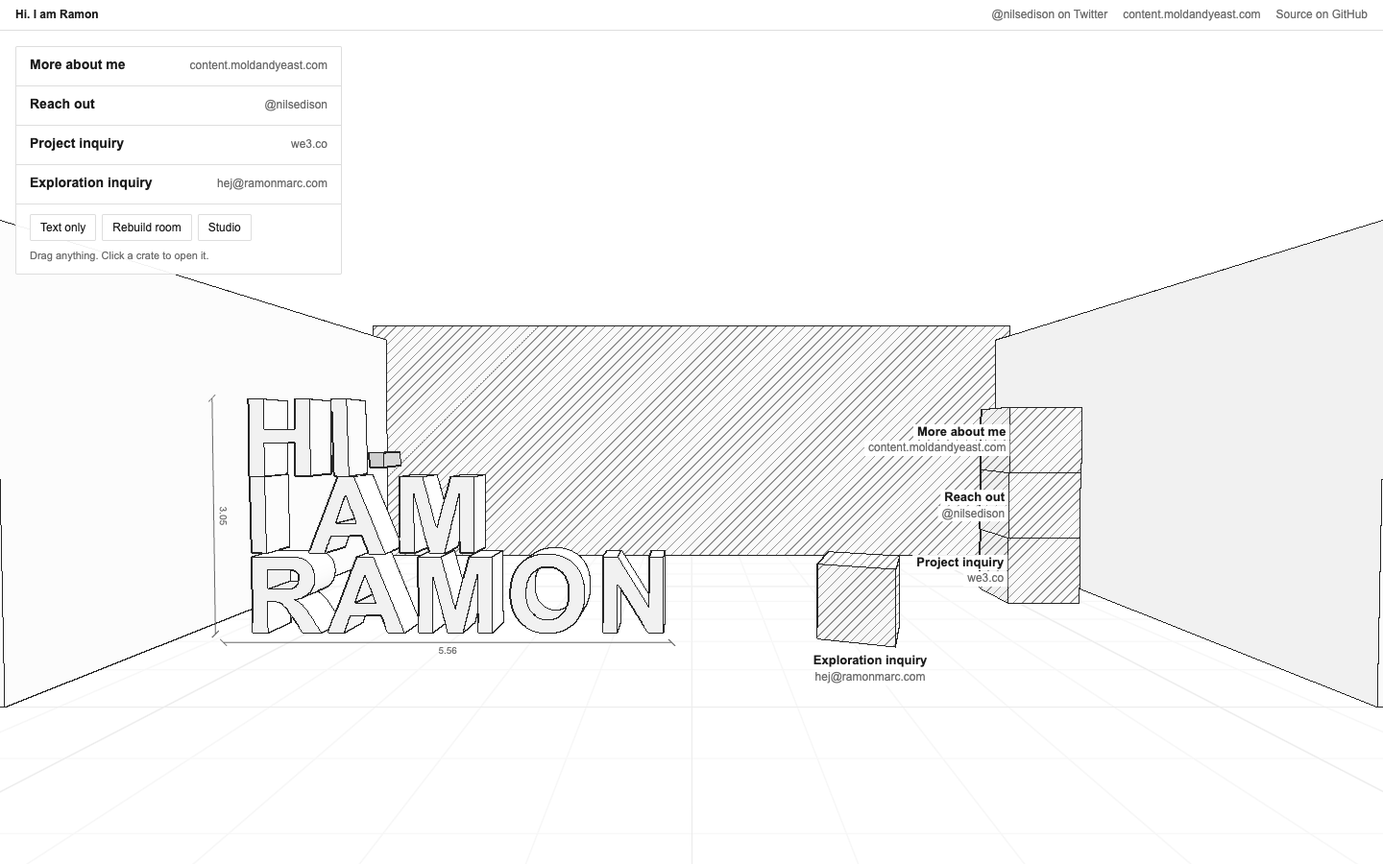
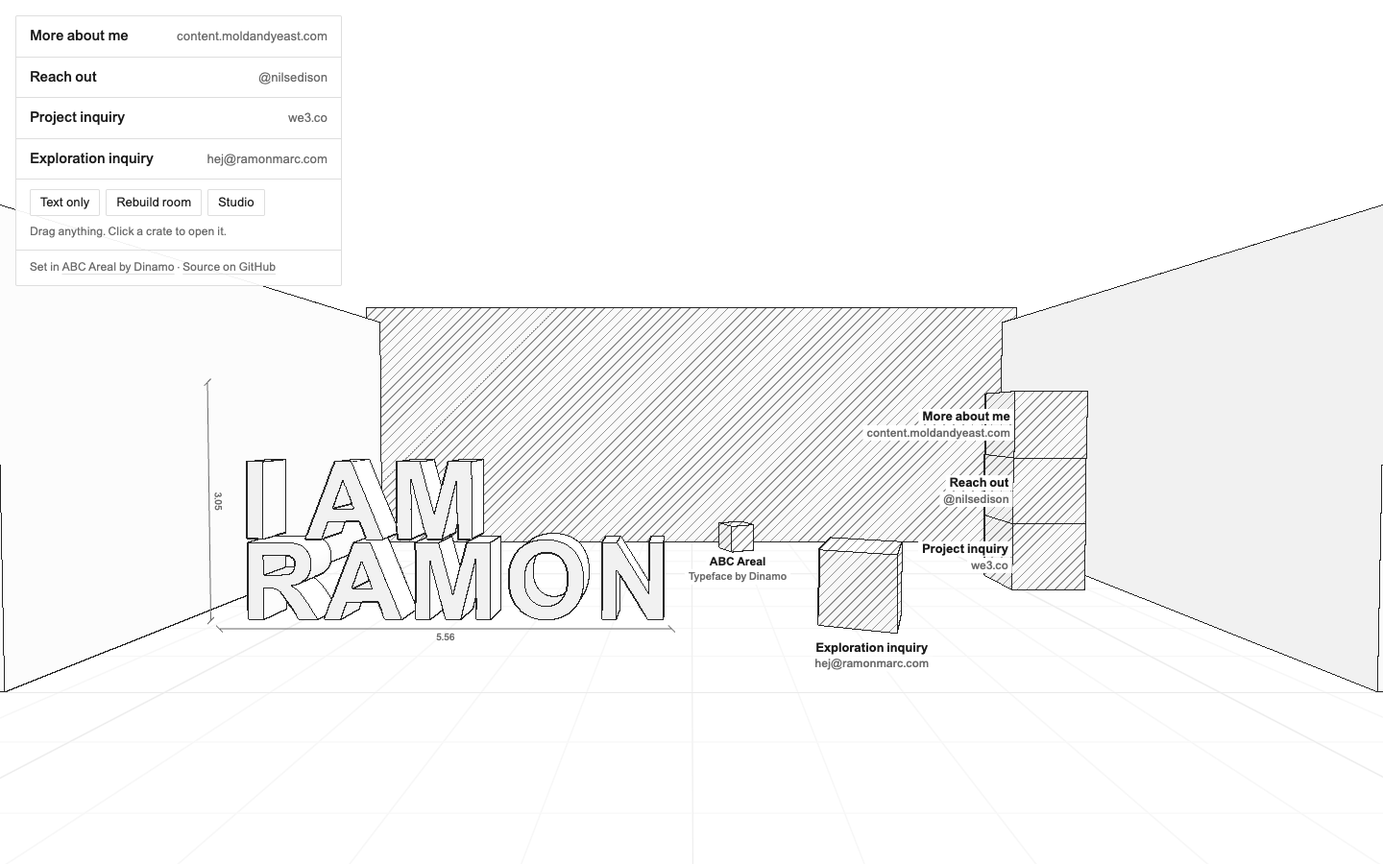
Set in ABC Areal by Dinamo; type system; colophon + Dinamo crate replace the credits bar
- Type: ABC Areal (free, by Dinamo) subset + inlined at build time by
  scripts/build.mjs into dist/ (wrangler runs it before deploy/dev). The font
  is never committed: Dinamo licence §10 forbids fonts in public repos; verify
  enforces it. 3D letters stay Arial (§10: no letterform-shaped objects).
- One scale (13/16/20 + display), real weights (400/500/700), size-specific
  tracking, DRKM dark-mode axis via --is-dark, tabular figures in the studio.
- Credits bar removed (it repeated the page's own links); a one-line colophon
  under the links credits Dinamo and links the source. Its data-crate link is a
  small crate at the back wall of the room.
- JS changes (deliberate, checksum updated): Areal as default face option,
  Site.links includes a[data-crate], room adds the small crate, crate labels
  use Theme.mono.

diff --git a/public/index.html b/public/index.html
@@ -41,11 +41,12 @@
 }
 </script>
 <style>
+/*@font-face ABC Areal: inlined here by scripts/build.mjs when fonts/ABCArealVariable.woff2 exists; otherwise Arial*/
 :root {
   --bg: #ffffff; --fill: #ffffff; --fill-2: #f1f1f1; --ink: #1a1a1a; --ink-2: #6b6b6b;
   --grid: #f2f2f2; --grid-major: #e3e3e3; --accent: #1a1a1a; --accent-fill: #e6e6e6; --ghost: #f7f7f7;
   --panel: rgba(255, 255, 255, 0.94); --hair: #dedede; --radius: 2px; --is-dark: 0;
-  --mono: Arial, "Helvetica Neue", Helvetica, "Liberation Sans", sans-serif; --display: Arial, "Helvetica Neue", Helvetica, "Liberation Sans", sans-serif;
+  --mono: "ABC Areal", Arial, "Helvetica Neue", Helvetica, "Liberation Sans", sans-serif; --display: "ABC Areal", Arial, "Helvetica Neue", Helvetica, "Liberation Sans", sans-serif;
   --fs-xs: 11px; --fs-s: 12px; --fs-m: 13px; --fs-l: 20px; --fs-xl: 30px;
 }
 @media (prefers-color-scheme: dark) { :root:not([data-theme="light"]) {
@@ -67,7 +68,7 @@ button { font: inherit; color: inherit; }
 .vh { position: absolute; width: 1px; height: 1px; overflow: hidden; clip: rect(0 0 0 0); white-space: nowrap; }
 [hidden] { display: none !important; }
 
-/* ===== Site layer: Arial, white / #1a1a1a, light grey hairlines, 2px corners ===== */
+/* ===== Site layer: ABC Areal (Arial fallback), white / #1a1a1a, light grey hairlines, 2px corners ===== */
 #site { --muted: var(--ink-2); font-family: var(--mono); }
 html:not(.room) body { overflow: auto; height: auto; min-height: 100%; background: var(--bg); }
 html:not(.room) #app { display: none; }
@@ -151,38 +152,9 @@ html.room .hint { padding: 0 14px 10px; font-size: 11px; }
 .hud-item .k::first-letter, #stats dt::first-letter { text-transform: uppercase; }
 #legend .lg-tog::after { content: "Hide"; } #legend.min .lg-tog::after { content: "Controls"; }
 #toast { border-radius: var(--radius); text-transform: none; letter-spacing: 0; font-size: 12px; }
-/* ===== Credits bar: same Arial, inks and hairlines as the site layer. Text page and room; gone in the studio and in fullscreen. ===== */
-#credits {
-  --cr-h: 32px; box-sizing: border-box; display: flex; flex-wrap: wrap; align-items: baseline; gap: 6px 16px;
-  --cr-x: max(clamp(20px, 6vw, 72px), calc((100% - 1040px) / 2 + clamp(20px, 6vw, 72px))); /* the text page's column */
-  padding: 10px var(--cr-x) 9px; font: 400 12px/1.1 var(--mono); color: var(--ink-2);
-  background: var(--bg); border-bottom: 1px solid var(--hair);
-}
-#credits b { font-weight: 700; color: var(--ink); }
-#credits ul { list-style: none; margin: 0 0 0 auto; padding: 0; display: flex; flex-wrap: wrap; gap: 6px 16px; }
-#credits a { color: inherit; text-decoration: none; }
-#credits a:hover { color: var(--ink); text-decoration: underline; text-underline-offset: 3px; text-decoration-thickness: 1px; }
-html:not(.room) body { display: flex; flex-direction: column; min-height: 100vh; min-height: 100dvh; }
-html:not(.room) #site { flex: 1 0 auto; width: 100%; min-height: 0; }
-html.room #credits { position: fixed; top: 0; left: 0; right: 0; z-index: 6; height: var(--cr-h); padding: 0 16px; align-items: center; flex-wrap: nowrap; white-space: nowrap; background: var(--panel); }
-html.room #credits ul { flex-wrap: nowrap; }
-html.room:not(.studio) #app { top: 32px; }
-html.room:not(.studio) #site { top: 48px; }
-html.studio #credits, html:fullscreen #credits { display: none !important; }
-@media (display-mode: fullscreen) { #credits { display: none !important; } }
-@media (max-width: 560px) { #credits ul { margin-left: 0; } }
-@media print { #credits { display: none; } }
 </style>
 </head>
 <body>
-<nav id="credits" aria-label="Credits">
-  <b>Hi. I am Ramon</b>
-  <ul>
-    <li><a href="https://twitter.com/nilsedison">@nilsedison on Twitter</a></li>
-    <li><a href="https://content.moldandyeast.com">content.moldandyeast.com</a></li>
-    <li><a href="https://github.com/moldandyeast/my-main-oct">Source on GitHub</a></li>
-  </ul>
-</nav>
 <main id="site">
   <header>
     <p class="sheet" aria-hidden="true">Sheet R-00 · moldandyeast.com</p>
@@ -204,6 +176,7 @@ html.studio #credits, html:fullscreen #credits { display: none !important; }
     <button type="button" class="btn only-room" data-site="studio">Studio</button>
   </div>
   <p class="hint only-room" aria-hidden="true">Drag anything. Click a crate to open it.</p>
+  <p class="colophon">Set in <a href="https://abcdinamo.com/typefaces/areal" data-crate data-label="ABC Areal" data-host="Typeface by Dinamo">ABC Areal by Dinamo</a> · <a href="https://github.com/moldandyeast/my-main-oct">Source on GitHub</a></p>
 </main>
 
 <!-- Everything below is the 3D room and the hidden studio (decorative / optional). -->
@@ -211,7 +184,7 @@ html.studio #credits, html:fullscreen #credits { display: none !important; }
   --bg: #ffffff; --fill: #ffffff; --fill-2: #f1f1f1; --ink: #1a1a1a; --ink-2: #6b6b6b;
   --grid: #f2f2f2; --grid-major: #e3e3e3; --accent: #1a1a1a; --accent-fill: #e6e6e6; --ghost: #f7f7f7;
   --panel: rgba(255, 255, 255, 0.94); --hair: #dedede; --radius: 2px; --is-dark: 0;
-  --mono: Arial, "Helvetica Neue", Helvetica, "Liberation Sans", sans-serif; --display: Arial, "Helvetica Neue", Helvetica, "Liberation Sans", sans-serif;
+  --mono: "ABC Areal", Arial, "Helvetica Neue", Helvetica, "Liberation Sans", sans-serif; --display: "ABC Areal", Arial, "Helvetica Neue", Helvetica, "Liberation Sans", sans-serif;
   --fs-xs: 11px; --fs-s: 12px; --fs-m: 13px; --fs-l: 20px; --fs-xl: 30px;
 }
 @media (prefers-color-scheme: dark) { :root:not([data-theme="light"]) {
@@ -397,7 +370,7 @@ code { font-family: var(--mono); }
 #hud, #stats, #legend, #titleblock, #banner, .drawer, .tbtn, .dr-io, .sc-text, pre, .tbl { border-radius: var(--radius); }
 #titleblock, #banner, .drawer { border-color: var(--hair); box-shadow: none; }
 
-/* ===== Site layer: Arial, white / #1a1a1a, light grey hairlines, 2px corners ===== */
+/* ===== Site layer: ABC Areal (Arial fallback), white / #1a1a1a, light grey hairlines, 2px corners ===== */
 #site { --muted: var(--ink-2); font-family: var(--mono); }
 html:not(.room) body { overflow: auto; height: auto; min-height: 100%; background: var(--bg); }
 html:not(.room) #app { display: none; }
@@ -481,6 +454,24 @@ html.room .hint { padding: 0 14px 10px; font-size: 11px; }
 .hud-item .k::first-letter, #stats dt::first-letter { text-transform: uppercase; }
 #legend .lg-tog::after { content: "Hide"; } #legend.min .lg-tog::after { content: "Controls"; }
 #toast { border-radius: var(--radius); text-transform: none; letter-spacing: 0; font-size: 12px; }
+/* ===== Type. ABC Areal by Dinamo: one scale (13 · 16 · 20 · display), real weights (400 text, 500 labels, 700 the heading),
+   tracking that tightens as size grows, and Areal's Darkmode axis on light-on-dark. ===== */
+:root { --t-s: 13px; --t-m: 16px; --t-l: 20px; -webkit-text-size-adjust: 100%; text-size-adjust: 100%; }
+body { font-variation-settings: "DRKM" var(--is-dark, 0); font-kerning: normal; text-rendering: optimizeLegibility; }
+#site h1 { font: 700 clamp(56px, 14vw, 160px)/0.88 var(--mono); letter-spacing: -0.035em; margin-left: -0.04em; }
+#links a { gap: 6px; padding: 16px 18px; }
+#links .lbl { font: 500 var(--t-l)/1.2 var(--mono); letter-spacing: -0.01em; }
+#links .host { font: 400 var(--t-m)/1.35 var(--mono); }
+#site .btn { font: 400 var(--t-s)/1 var(--mono); }
+.hint, .colophon { margin: 0; font: 400 var(--t-s)/1.4 var(--mono); color: var(--muted); letter-spacing: 0.005em; }
+.colophon a { color: inherit; text-decoration: underline; text-decoration-color: var(--hair); text-decoration-thickness: 1px; text-underline-offset: 3px; }
+.colophon a:hover, .colophon a.is-hot { color: var(--ink); text-decoration-color: currentColor; }
+html.room #links a { padding: 11px 14px; }
+html.room #links .lbl { font-size: 15px; letter-spacing: -0.005em; }
+html.room #links .host { font-size: var(--t-s); }
+html.room .hint { padding: 0 14px 10px; font-size: 12px; }
+html.room .colophon { border-top: 1px solid var(--hair); padding: 9px 14px 10px; font-size: 12px; }
+#stats, #hud, .hud-item { font-variant-numeric: tabular-nums; }
 </style>
 
 
@@ -4391,7 +4382,7 @@ class Overlay3 {
    §7  ENGINE SHELL — theme, input, audio, fixed-step loop, UI, demo registry
    ========================================================================== */
 const Theme = {
-  mono: 'Arial, "Helvetica Neue", Helvetica, "Liberation Sans", sans-serif',
+  mono: '"ABC Areal", Arial, "Helvetica Neue", Helvetica, "Liberation Sans", sans-serif',
   colors: {}, _rgb: {}, display: 'system-ui, sans-serif',
   /** Non-colour art-style tokens (edited in Settings → Render). */
   style: { line: 1, hatch: 7, hatchAngle: 45, statics: true, fills: true, marks: true, grid: true, annotations: true, edgePx: 1, edgeDepth: 0.06, edgeNormal: 0.8, shade: 1, vignette: 0, grain: 0, fogStart: 70, fogEnd: 220 },
@@ -4699,6 +4690,7 @@ const Engine = {
    so a tuned setup can be copied straight into a future prompt.
    ========================================================================== */
 const FONT_STACKS = {
+  areal: { label: 'ABC Areal', v: '"ABC Areal", Arial, "Helvetica Neue", Helvetica, "Liberation Sans", sans-serif' },
   arial: { label: 'Arial', v: 'Arial, "Helvetica Neue", Helvetica, "Liberation Sans", sans-serif' },
   mono: { label: 'Technical mono', v: 'ui-monospace, "SF Mono", "JetBrains Mono", "Cascadia Mono", Menlo, Consolas, "Liberation Mono", monospace' },
   typewriter: { label: 'Typewriter', v: '"Courier New", Courier, "Nimbus Mono PS", monospace' },
@@ -4706,6 +4698,7 @@ const FONT_STACKS = {
   humanist: { label: 'Humanist sans', v: '"Gill Sans", "Gill Sans MT", Optima, Candara, "Segoe UI", sans-serif' },
 };
 const DISPLAY_STACKS = {
+  areal: { label: 'ABC Areal', v: '"ABC Areal", Arial, "Helvetica Neue", Helvetica, "Liberation Sans", sans-serif' },
   arial: { label: 'Arial', v: 'Arial, "Helvetica Neue", Helvetica, "Liberation Sans", sans-serif' },
   condensed: { label: 'Condensed lettering', v: '"Avenir Next Condensed", "DIN Condensed", "Roboto Condensed", "Arial Narrow", "Helvetica Neue", system-ui, sans-serif' },
   grotesk: { label: 'Grotesk sans', v: 'system-ui, -apple-system, "Segoe UI", Roboto, "Helvetica Neue", Arial, sans-serif' },
@@ -4731,7 +4724,7 @@ const Settings = {
       world: { substeps: 4, jointIterations: 2, rate: 60, timeScale: 1, gravityScale: 1, allowSleep: true, interpolate: true },
       phys: JSON.parse(JSON.stringify(this._base)),
       mat: { override: false, friction: 0.6, restitution: 0, rolling: 0, linearDamping: 0, angularDamping: 0.02 },
-      style: { preset: 'auto', mono: 'arial', display: 'arial', tokens, ...JSON.parse(JSON.stringify(this._styleBase)) },
+      style: { preset: 'auto', mono: 'areal', display: 'areal', tokens, ...JSON.parse(JSON.stringify(this._styleBase)) },
     };
   },
   /** Panel schema: [tab, section, key path, label, kind, min, max, step, hint] */
@@ -4921,7 +4914,7 @@ const Settings = {
       for (const [k, css] of Object.entries(TOKEN_CSS)) if (T[k]) r.setProperty('--' + css, T[k]);
       r.setProperty('--panel', rgba(T.bg, 0.88)); r.setProperty('--hair', rgba(T.ink, T.dark ? 0.16 : 0.13)); r.setProperty('--is-dark', T.dark ? '1' : '0'); r.setProperty('color-scheme', T.dark ? 'dark' : 'light');
     }
-    r.setProperty('--mono', (FONT_STACKS[st.mono] || FONT_STACKS.arial).v); r.setProperty('--display', (DISPLAY_STACKS[st.display] || DISPLAY_STACKS.arial).v);
+    r.setProperty('--mono', (FONT_STACKS[st.mono] || FONT_STACKS.areal).v); r.setProperty('--display', (DISPLAY_STACKS[st.display] || DISPLAY_STACKS.areal).v);
     Theme.read();
   },
   cyclePreset() {
@@ -5787,12 +5780,15 @@ Engine.register({
     });
     s.stackH = base; s.left = left; s.zt = zt; s.D = D; s.ramonW = lines[0].width;
     // crates for the four HTML links: a tower of three by the right wall, one on the floor
-    const links = (typeof Site !== 'undefined' && Site.links) || [], C = 0.95, tx = R.w / 2 - 1.1, tz = 0.6;
+    const all = (typeof Site !== 'undefined' && Site.links) || [], links = all.filter(l => !l.small), C = 0.95, tx = R.w / 2 - 1.1, tz = 0.6;
     s.links = links.map((l, i) => {
       const floor = i === links.length - 1, h = floor ? C : 1.0;
       const pos = floor ? v3(2.2, h / 2 + 2.2, 2.6) : v3(tx, h / 2 + (links.length - 2 - i) * 1.0 + 0.3 + (links.length - 2 - i) * 0.5, tz);
       return W.add({ shape: Shape3.box(floor ? C : 1.1, h, floor ? C : 1.0), pos, q: Quat.axisAngle(v3(0, 1, 0), floor ? -0.35 : 0), density: 0.6, friction: 0.8, style: { hatch: true }, user: { link: i, hop: floor } });
     });
+    // the colophon's typeface credit: a small crate at the back wall
+    const si = all.findIndex(l => l.small), c = 0.5;
+    if (si >= 0) s.links.push(W.add({ shape: Shape3.box(c, c, c), pos: v3(0.9, c / 2 + 1.6, R.z0 + 0.8), q: Quat.axisAngle(v3(0, 1, 0), 0.45), density: 0.6, friction: 0.8, style: { hatch: true }, user: { link: si, hop: true, small: true } }));
     s.hoverLink = -1;
   },
   step(g) {
@@ -5836,9 +5832,9 @@ Engine.register({
     o.dim(v3(s.left, 0, z + 0.35), v3(s.left + s.ramonW, 0, z + 0.35), s.ramonW.toFixed(2));
     s.links.forEach(b => {
       const L = Site.links[b.user.link]; if (!L) return; const hot = Site.hl === b.user.link || s.hoverLink === b.user.link, fl = b.user.hop; // tower crates: label to the left · floor crate: label below
-      const p = fl ? (b.rp || b.pos).add(v3(0, -0.5, 0.5)) : rpose(b, v3(-0.62, 0, 0.5)), al = fl ? 'center' : 'right', y0 = fl ? 16 : -8;
-      o.text(L.label, p, { size: 13, bold: true, font: ArialText.FONT, color: hot ? T.accent : T.ink, bg: T.bg, dy: y0, align: al });
-      o.text(L.host, p, { size: 12, font: ArialText.FONT, color: hot ? T.accent : T.ink2, bg: T.bg, dy: y0 + 17, align: al });
+      const sm = b.user.small, p = fl ? (b.rp || b.pos).add(sm ? v3(0, -0.25, 0.25) : v3(0, -0.5, 0.5)) : rpose(b, v3(-0.62, 0, 0.5)), al = fl ? 'center' : 'right', y0 = fl ? (sm ? 12 : 16) : -8;
+      o.text(L.label, p, { size: sm ? 12 : 13, bold: true, font: Theme.mono, color: hot ? T.accent : T.ink, bg: T.bg, dy: y0, align: al });
+      o.text(L.host, p, { size: sm ? 11 : 12, font: Theme.mono, color: hot ? T.accent : T.ink2, bg: T.bg, dy: y0 + (sm ? 15 : 17), align: al });
     });
     if (s.poke && s.poke.t < 0.5) o.ring(s.poke.p, 4 + 40 * Ease.outCubic(s.poke.t / 0.5), T.accent);
   },
@@ -6370,10 +6366,10 @@ const Site = {
   gl() { if (this._gl == null) { try { this._gl = !!document.createElement('canvas').getContext('webgl2'); } catch (e) { this._gl = false; } } return this._gl; },
   pref(v) { try { if (v === undefined) return localStorage.getItem(this.KEY); localStorage.setItem(this.KEY, v); } catch (e) { return null; } },
   boot() {
-    this.links = [...document.querySelectorAll('#links a')].map((el, i) => {
+    this.links = [...document.querySelectorAll('#links a, a[data-crate]')].map((el, i) => {
       el.addEventListener('mouseenter', () => this.highlight(i, true)); el.addEventListener('mouseleave', () => this.highlight(i, false));
       el.addEventListener('focus', () => this.highlight(i, true)); el.addEventListener('blur', () => this.highlight(i, false));
-      return { el, label: el.dataset.label, host: el.dataset.host, ext: !el.href.startsWith('mailto:') };
+      return { el, label: el.dataset.label, host: el.dataset.host, ext: !el.href.startsWith('mailto:'), small: el.hasAttribute('data-crate') };
     });
     document.addEventListener('click', e => {
       const b = e.target.closest('[data-site]'); if (!b) return; const a = b.dataset.site;

diff --git a/README.md b/README.md
@@ -2,10 +2,10 @@
 
 My personal site: a heading and four links, in one HTML file. On a wide screen the same page is also a drawn 3D room where every letter and crate is a rigid body you can throw around, and behind the **Studio** button there is a complete physics sandbox with a YAML scene language. Fork it and make it yours.
 
-**Live:** https://moldandyeast.com · More at https://content.moldandyeast.com · follow [@nilsedison](https://twitter.com/nilsedison) on Twitter · [source on GitHub](https://github.com/moldandyeast/my-main-oct)
+**Live:** https://moldandyeast.com · More at https://content.moldandyeast.com · follow [@nilsedison](https://twitter.com/nilsedison) on Twitter · [source on GitHub](https://github.com/moldandyeast/my-main-oct) · set in [ABC Areal](https://abcdinamo.com/typefaces/areal) by [Dinamo](https://abcdinamo.com), thank you
 
 <p>
-  <img src="docs/room.png" alt="The room: the words I AM RAMON as 3D letters, link crates stacked on the right, the links as a panel in the corner" width="72%">
+  <img src="docs/room.png" alt="The room: the words I AM RAMON as 3D letters, link crates stacked on the right, the links as a panel in the corner, a small crate for the typeface at the back wall" width="72%">
   <img src="docs/text.png" alt="The text page on a phone: Hi. I am Ramon, four link cards" width="22%">
 </p>
 
@@ -17,7 +17,15 @@ My personal site: a heading and four links, in one HTML file. On a wide screen t
 2. **`<div id="app">`, the room.** Decorative and `aria-hidden`. It starts only on screens wider than 760px with a fine pointer and WebGL 2. It reads the heading and links out of the HTML above, so the letters and crates always match the real content.
 3. **The studio.** A 2D/3D physics engine (rigid bodies, joints, ragdolls, terrain, rewind) with a settings panel, a YAML scene editor and its full documentation built into the file. Press `/` inside the studio to read it.
 
-It makes no third-party requests: there are no webfonts (the type is Arial / Helvetica from the system), no CDNs and no analytics. Save the page to disk and it still runs offline. The live site also sends a Content-Security-Policy (`public/_headers`) so the browser enforces that.
+## Type
+
+The page is set in **[ABC Areal](https://abcdinamo.com/typefaces/areal)**, Dinamo's free revival of Arial (made for [Are.na](https://www.are.na/editorial/introducing-areal-are-nas-new-typeface)). Since the original was all Arial, the switch is a refinement rather than a change of voice. There is one type scale: 13 / 16 / 20px plus the display heading. It uses real weights: Regular for text, Areal's **Medium** for labels (Arial has no Medium, so browsers used to fake it), and Bold only for the heading. Letter-spacing tightens as size grows (−0.035em on the heading, −0.01em on labels). In dark mode the page turns on Areal's `DRKM` axis, which corrects for light text glowing on dark backgrounds. A small crate at the back of the room says thank you to Dinamo; click it.
+
+**Areal is not in this repo, and can't be.** Dinamo's licence forbids putting the fonts in public repositories, and forbids making letterform-shaped objects from them (so the room's 3D letters stay Arial). The build subsets and inlines your own copy at deploy time. See [`fonts/README.md`](fonts/README.md). Without it, everything falls back to Arial.
+
+## No third-party requests
+
+There are no CDNs, no analytics and no remote fonts. The deployed page inlines its font subset as base64, so you can save it to disk and it still runs offline. The live site also sends a Content-Security-Policy (`public/_headers`) so the browser enforces this.
 
 ## Fork it
 
@@ -26,14 +34,16 @@ You need Node 20+ and a Cloudflare account. Hosting is a static-assets-only Work
 ```sh
 git clone https://github.com/moldandyeast/my-main-oct my-site && cd my-site
 npm install
-npm run dev          # http://localhost:8787
+npm run dev          # builds dist/, serves http://localhost:8787
 ```
+
+For Areal, follow [`fonts/README.md`](fonts/README.md) (free download, `pip3 install fonttools brotli`). Otherwise you get Arial.
 
 Then make it yours:
 
 1. **Content.** Edit the `<h1>` and the four `<li>` links in `<main id="site">` in `public/index.html`. The room rebuilds itself from them, so you don't need to touch any JavaScript. Keep `data-label` and `data-host` on each link: they are what the crates show.
 2. **Metadata.** In `<head>`, update the title, description, canonical URL, `rel="me"` links and the JSON-LD block.
-3. **Credits bar.** Change the `<nav id="credits">` links at the top of `<body>` to point at you and your fork.
+3. **Colophon.** Change the `<p class="colophon">` line under the links (typeface credit + source link). The link with `data-crate` also becomes the small crate in the room.
 4. **Agent files.** Rewrite `public/llms.txt`, `public/index.md`, `public/robots.txt` and `public/sitemap.xml` with your domain and links.
 5. **Domain.** In `wrangler.jsonc`, set `name` to your project and replace the route with `{ "pattern": "your.domain", "custom_domain": true }`. The domain must be a zone on your Cloudflare account; Wrangler creates the DNS record and certificate on the first deploy. (This repo uses a zone route, `moldandyeast.com/*`, only because the apex already had a DNS record from an earlier site. Use the same if yours does.)
 6. **Deploy.**
@@ -61,22 +71,24 @@ The site is meant to be easy to read and easy to work on for language models and
 | `/` | Plain semantic HTML with JSON-LD `Person` data. It advertises both files above in `<link>` tags and in an HTTP `Link` header |
 | [`/robots.txt`](https://moldandyeast.com/robots.txt) | Allows every crawler and points to the sitemap |
 | [`AGENTS.md`](AGENTS.md) | For coding agents working on this repo or a fork: layout, invariants, deploy, verification |
-| `npm run check` / `npm run verify` | Offline checks, then live checks: DNS through 1.1.1.1, byte-identical HTML, JS checksum, every credits link returns 200 |
+| `npm run check` / `npm run verify` | Offline checks (JS checksum, no external resources, no font in git), then live checks: DNS through 1.1.1.1, live page byte-identical to `dist/`, every colophon link returns 200 |
 
 The studio has its own prompt loop too. Give a model the page, or just its Docs section, and ask for "a YAML scene for &lt;game idea&gt;". Paste the answer into the Scene editor and press Run. Pinball, Bowling, Expedition and Quarry are written entirely in YAML and make good worked examples. On a wide screen, opening `https://moldandyeast.com/#studio` goes straight into the studio, and `#pinball` (or any other sheet id) goes straight to that sheet.
 
 ## Files
 
 ```
-public/index.html     the site
+public/index.html     the site (source; Arial fallback, no font inside)
 public/llms.txt       for language models
 public/index.md       Markdown version of the page
 public/robots.txt     crawler policy + sitemap pointer
 public/sitemap.xml
 public/_headers       CSP, Link header and content types (Cloudflare reads this; it is not served)
+scripts/build.mjs     public/ → dist/, inlines the ABC Areal subset if fonts/ has it
 scripts/verify.mjs    offline and live checks, no dependencies
+fonts/README.md       how to get Areal, and why the font is never committed
 scripts/piece-js.sha256  checksum of the page's JavaScript
-wrangler.jsonc        assets-only Worker, routed on moldandyeast.com
+wrangler.jsonc        assets-only Worker serving dist/, routed on moldandyeast.com; runs the build first
 AGENTS.md             instructions for coding agents (CLAUDE.md points here)
 ```
 
@@ -84,4 +96,4 @@ AGENTS.md             instructions for coding agents (CLAUDE.md points here)
 
 ## Licence
 
-The code is [MIT](LICENSE): fork it, change it, ship it. The words, name and contact details are mine, so please swap them for your own.
+The code is [MIT](LICENSE): fork it, change it, ship it. The words, name and contact details are mine, so please swap them for your own. ABC Areal is © Dinamo Typefaces GmbH under [their licence](https://abcdinamo.com/licenses) and is not part of this repository.

diff --git a/AGENTS.md b/AGENTS.md
@@ -6,6 +6,7 @@ Instructions for coding agents working on this repo or a fork. Read `README.md` 
 
 - `public/index.html` is the entire site. It has no build step, no package imports and no external requests. Everything is inline: CSS, the JavaScript engine and the YAML scenes in `<script type="text/yaml" data-scene="…">`.
 - `wrangler.jsonc` describes an **assets-only** Cloudflare Worker that serves `public/` on `moldandyeast.com/*`. It uses a zone route because the apex already had a DNS record; a fork on a fresh hostname should use `{ "pattern": "host", "custom_domain": true }`. Keep it assets-only: do not add a `main` script unless the user asks, because static assets are free and unmetered.
+- `scripts/build.mjs` copies `public/` to `dist/` and, if `fonts/ABCArealVariable.woff2` exists, inlines a subset of ABC Areal as base64. `wrangler.jsonc` runs it before every `wrangler dev` / `wrangler deploy`, and serves `dist/`. Edit `public/`, never `dist/`.
 - `public/_headers` sets the CSP, the `Link` header and content types. Cloudflare reads it and does not serve it.
 - `public/llms.txt`, `public/index.md`, `public/robots.txt` and `public/sitemap.xml` are the agent-facing copies of the page. **Whenever you change the heading or links in `index.html`, update `llms.txt` and `index.md` to match.**
 
@@ -13,18 +14,21 @@ Instructions for coding agents working on this repo or a fork. Read `README.md` 
 
 1. **Content lives in HTML.** `<main id="site">` is the source of truth. The room's JavaScript reads `#links a` (`data-label`, `data-host`, `href`) and the `<h1>`, so content changes need no JS edits.
 2. **The JavaScript is frozen by checksum.** `scripts/piece-js.sha256` is the SHA-256 of every `<script>` block except the JSON-LD one, concatenated in order. `npm run check` fails if they drift. Only regenerate it when the user asked for a JS change (the command is in README.md).
-3. **No third-party requests.** Do not add webfonts from Google Fonts, CDN scripts, analytics, remote images or `fetch` calls to other origins. The CSP will block them anyway. If a webfont is really needed: subset it to the codepoints the page uses, inline it as base64 woff2 in `@font-face`, and commit its licence under `fonts/`.
-4. **The credits bar** (`<nav id="credits">`) is styled with the site's own tokens (`--mono`, `--ink`, `--ink-2`, `--hair`, `--bg`, `--panel`). It shows on the text page and in the room, and hides in the studio (`html.studio`), in fullscreen and in print. CSS alone controls it: do not add JS for it.
-5. **Modes are classes on `<html>`.** `can-room` means the room is available, `room` means the 3D room is showing, and `studio` means the instrument is open. Style against these classes rather than adding new state.
+3. **No third-party requests.** Do not add webfonts from Google Fonts, CDN scripts, analytics, remote images or `fetch` calls to other origins. The CSP will block them anyway.
+4. **ABC Areal never enters git.** Dinamo's licence §10 forbids fonts in public repositories (and inlined base64 counts). The font lives only in the gitignored `fonts/` and in the built `dist/`. The room's 3D letters must stay **Arial** (`ArialText.FONT`): §10 also forbids making letterform-shaped objects from the fonts. Areal is for text only. `npm run check` enforces the git part.
+5. **No credits bar.** The page's own links already carry the contact details, so a bar would only repeat them. Credits go in the one-line `<p class="colophon">` under the links (typeface + source). Its `a[data-crate]` link becomes the small crate at the back of the room.
+6. **Type system.** It lives in the `/* ===== Type.` block at the end of the second stylesheet: sizes `--t-s` 13 / `--t-m` 16 / `--t-l` 20 plus the display clamp; weights 400 text / 500 labels / 700 heading; tracking tightens with size; `font-variation-settings: "DRKM" var(--is-dark)`. Extend those tokens rather than adding new sizes.
+7. **Modes are classes on `<html>`.** `can-room` means the room is available, `room` means the 3D room is showing, and `studio` means the instrument is open. Style against these classes rather than adding new state.
 
 ## Commands
 
 ```sh
 npm install
-npm run dev       # local server on :8787; applies _headers like production
+npm run build     # public/ → dist/ (+ ABC Areal subset if fonts/ has it)
+npm run dev       # builds, then serves dist/ on :8787 with _headers like production
 npm run check     # offline checks: JS checksum, no external resources, files present
 npm run deploy    # = wrangler deploy (manual; there is no CI). Uses the existing `wrangler login` session
-npm run verify    # offline checks + live: DNS via 1.1.1.1, byte-identical HTML/llms.txt/index.md, credits links all 200
+npm run verify    # offline checks + live: DNS via 1.1.1.1, byte-identical HTML/llms.txt/index.md, colophon links all 200
 ```
 
 Deploying is manual and outward-facing: pushing a branch publishes nothing. Only run `npm run deploy` when the user asks for it.
@@ -32,10 +36,10 @@ Deploying is manual and outward-facing: pushing a branch publishes nothing. Only
 ## Verifying a deploy
 
 - Use `npm run verify`, or `dig @1.1.1.1 +short <host>` followed by `curl --resolve <host>:443:<ip> https://<host>/`. A local resolver may cache an NXDOMAIN from before the first deploy, so a failing plain `curl` right after deploying can be a false alarm.
-- The live `/` must be byte-identical to `public/index.html`.
-- Every link in the credits bar must return 200.
+- The live `/` must be byte-identical to `dist/index.html`.
+- Every link in the colophon must return 200.
 - If you could not see the page render in a real browser, say so.
 
 ## Forking checklist
 
-Edit `<main id="site">`, `<head>` metadata and JSON-LD, the credits bar, the four agent files, then `name` and `routes` in `wrangler.jsonc`. Run `npm run check`, deploy, then run `npm run verify`.
+Edit `<main id="site">`, `<head>` metadata and JSON-LD, the colophon, the four agent files, then `name` and `routes` in `wrangler.jsonc`. Run `npm run check`, deploy, then run `npm run verify`.

diff --git a/fonts/README.md b/fonts/README.md
@@ -1,0 +1,25 @@
+# Fonts
+
+The site is set in **[ABC Areal](https://abcdinamo.com/typefaces/areal)** by [Dinamo](https://abcdinamo.com), a free revival of Arial (v2.82, as it shipped in early web browsers), originally made for [Are.na](https://www.are.na/editorial/introducing-areal-are-nas-new-typeface).
+
+**The font files are not in this repository, and must never be added.** Areal is free for everyone, but its licence ([Dinamo Licensing Terms](https://abcdinamo.com/licenses), §9.12 free fonts licence) lists among its restrictions (§10):
+
+> Put the fonts in public repositories
+>
+> Use the fonts to create letterform-shaped objects
+
+So:
+
+- `.gitignore` ignores everything in `fonts/` except this README, and `npm run check` fails if a font file or inlined font data is ever tracked.
+- The 3D letters in the room ("HI. I AM RAMON") are extruded from **Arial**, never from Areal, because they are letterform-shaped objects. Areal is used only for text: the HTML, the panel, crate labels and the studio UI.
+
+## Using Areal in your build
+
+1. Download Areal for free from https://abcdinamo.com/typefaces/areal and accept the licence.
+2. Copy `ABC Areal/WOFF2/ABCArealVariable.woff2` from the download into this folder.
+3. Install the subsetter once: `pip3 install fonttools brotli`.
+4. `npm run build` (also run automatically by `wrangler dev` and `wrangler deploy`).
+
+`scripts/build.mjs` subsets the variable font to the codepoints the page uses (about 140; weight 400–700 and the `DRKM` dark-mode axis are kept, along with the font's copyright and licence strings), then inlines it as base64 WOFF2 in `@font-face` in `dist/index.html`. §9.5 allows self-hosting and subsetting WOFF2 with `@font-face`. The deployed page stays one self-contained file with no third-party requests.
+
+Without the font, the build copies `public/` unchanged and everything falls back to Arial, which Areal is drawn from, so the page looks very nearly the same.

diff --git a/public/index.md b/public/index.md
@@ -9,4 +9,4 @@
 
 This is the Markdown version of <https://moldandyeast.com/>. The HTML page is the same content, plus an optional 3D physics room and studio on wide screens.
 
-Source (MIT): <https://github.com/moldandyeast/my-main-oct> · More for language models: </llms.txt>
+Set in [ABC Areal by Dinamo](https://abcdinamo.com/typefaces/areal) · Source (MIT): <https://github.com/moldandyeast/my-main-oct> · More for language models: </llms.txt>
